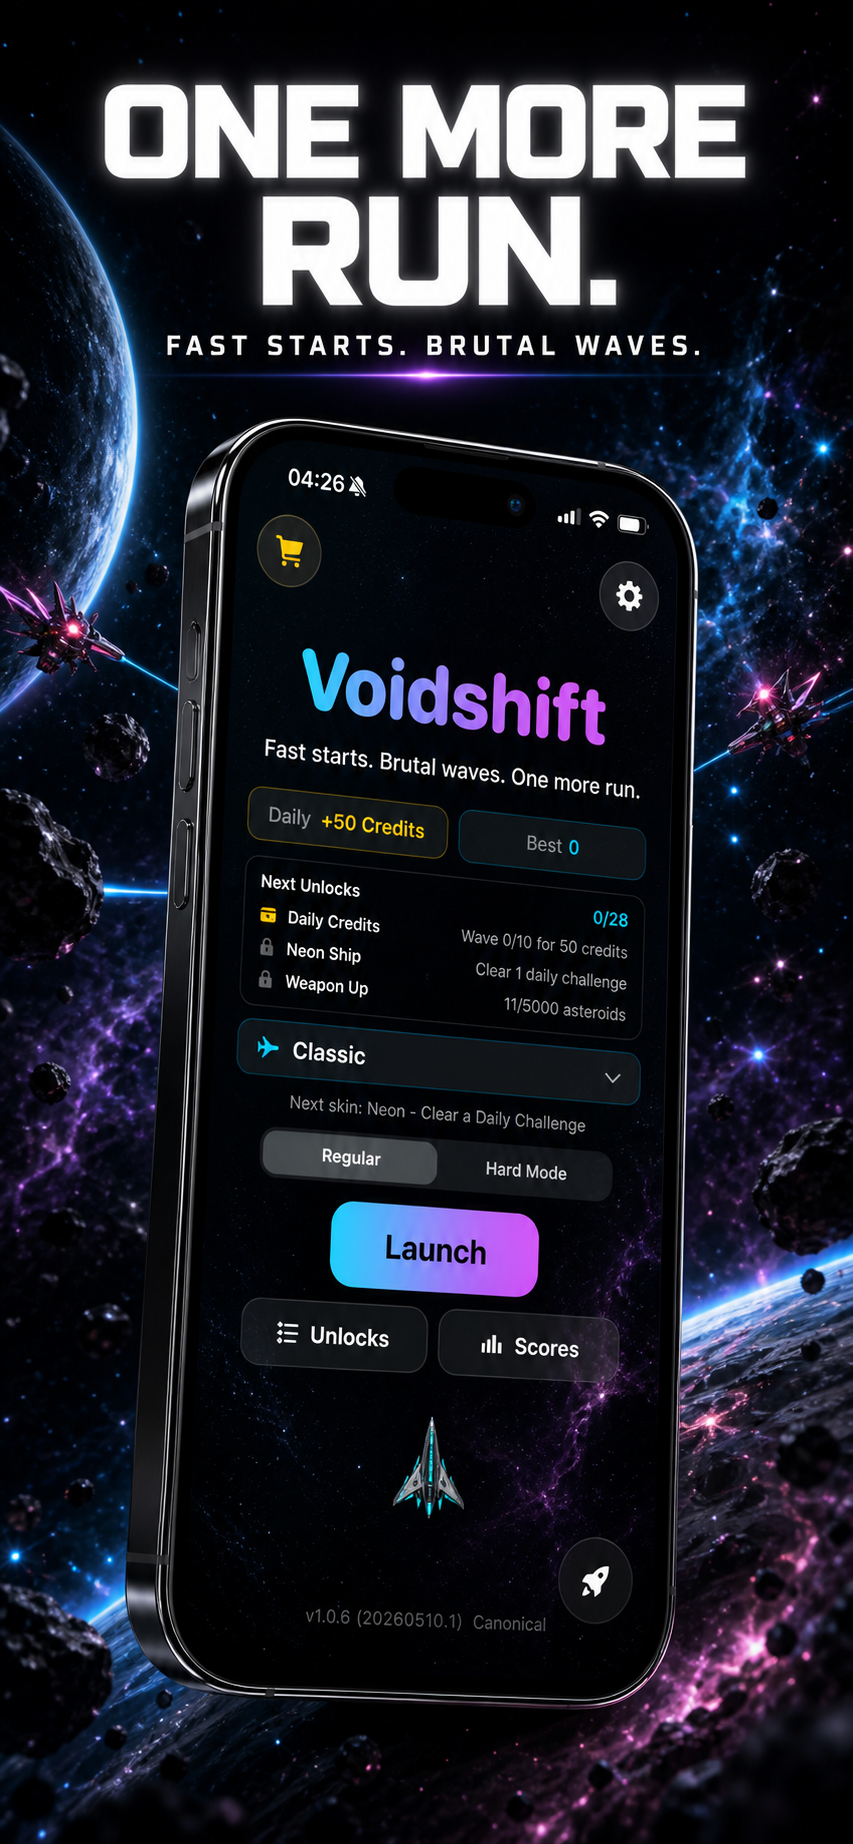
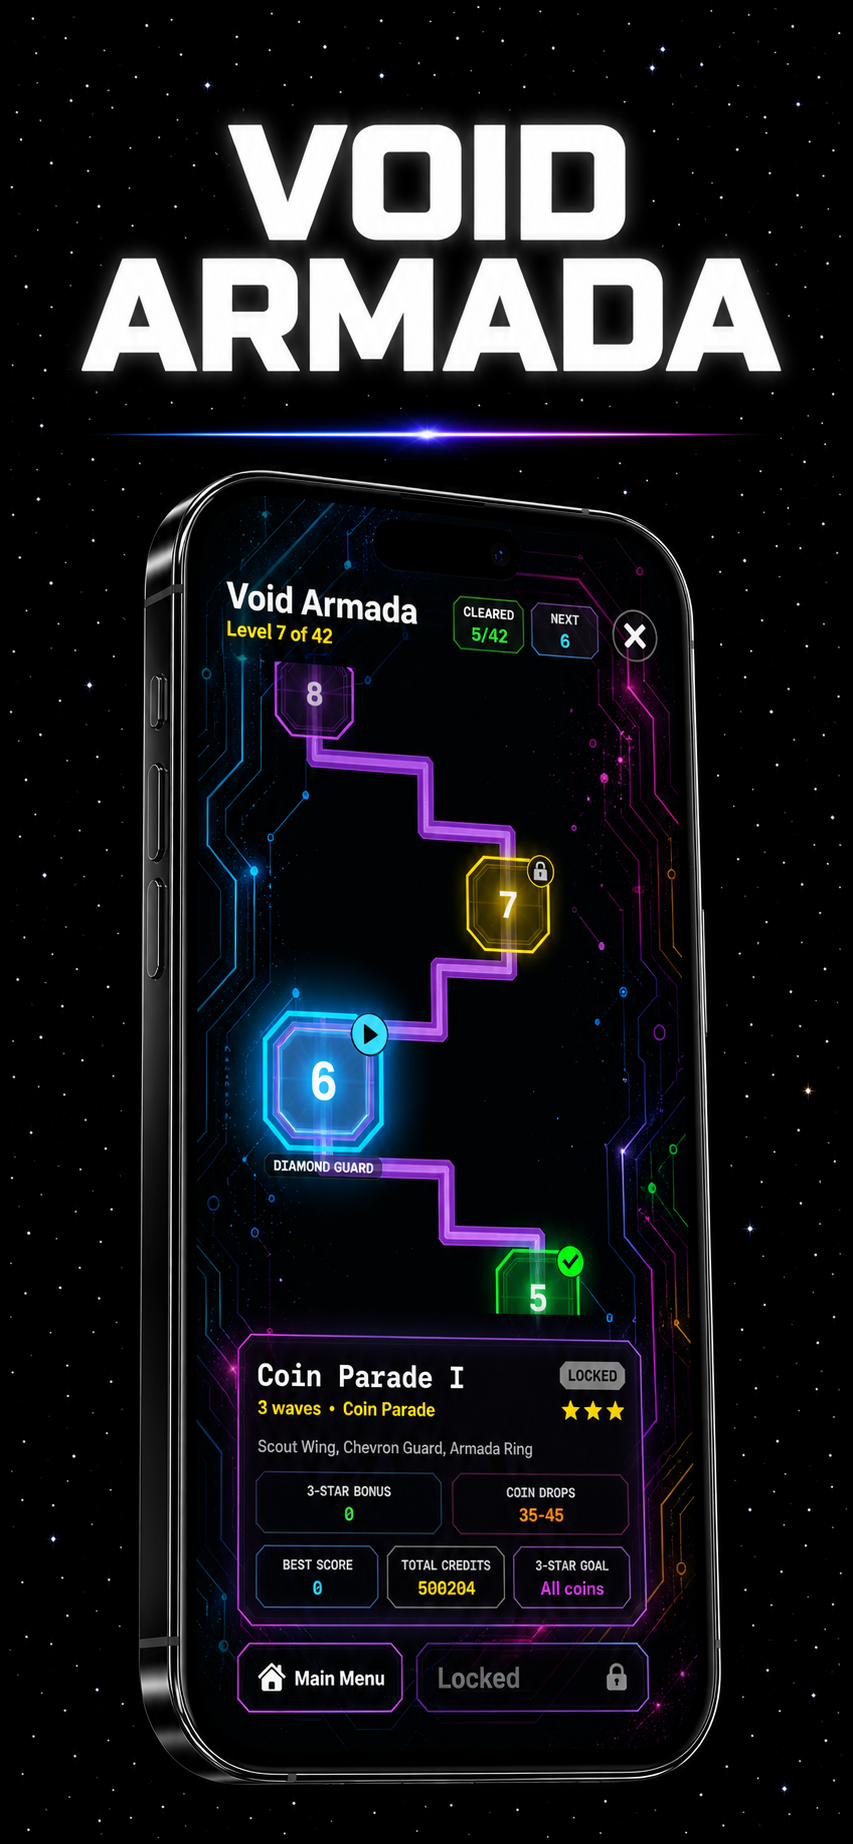
Update VoidShift 3.0 promo images

diff --git a/works/games/index.html b/works/games/index.html
@@ -69,18 +69,18 @@
 						<p class="voidshift-actions"><a class="voidshift-download en-b" href="https://apps.apple.com/us/app/voidshift/id6764814433?uo=4" target="_blank" rel="noopener">Download on the App Store</a><a class="voidshift-download voidshift-policy-link en-b" href="/works/games/privacy-policy/">Privacy Policy</a></p>
 					</div>
 					<div class="voidshift-gallery" aria-label="VoidShift screenshots">
-						<img src="/works/games/image/voidshift-enter-the-void.png" alt="VoidShift Enter the Void promo">
-						<img src="/works/games/image/voidshift-launch-screen.png" alt="VoidShift launch screen">
-						<img src="/works/games/image/voidshift-cosmetics.png" alt="VoidShift cosmetics screen">
-						<img src="/works/games/image/voidshift-tier-3.png" alt="VoidShift arsenal screen">
+						<img src="/works/games/image/voidshift-enter-the-void.png?v=20260531" alt="VoidShift Enter the Void promo">
+						<img src="/works/games/image/voidshift-launch-screen.png?v=20260531" alt="VoidShift Void Armada promo">
+						<img src="/works/games/image/voidshift-cosmetics.png?v=20260531" alt="VoidShift One More Run promo">
+						<img src="/works/games/image/voidshift-tier-3.png?v=20260531" alt="VoidShift Customize Your Ship promo">
 					</div>
 				</div></div>
 			<div class="dt-credit"><p>Game: VoidShift<br>Studio: Tech N Tweaks<br>Platform: iPhone / iPad</p></div>
 			<div class="dt-w-imglist">
-				<p class="dt-w-img">/works/games/image/voidshift-enter-the-void.png</p>
-				<p class="dt-w-img">/works/games/image/voidshift-launch-screen.png</p>
-				<p class="dt-w-img">/works/games/image/voidshift-cosmetics.png</p>
-				<p class="dt-w-img">/works/games/image/voidshift-tier-3.png</p>
+				<p class="dt-w-img">/works/games/image/voidshift-enter-the-void.png?v=20260531</p>
+				<p class="dt-w-img">/works/games/image/voidshift-launch-screen.png?v=20260531</p>
+				<p class="dt-w-img">/works/games/image/voidshift-cosmetics.png?v=20260531</p>
+				<p class="dt-w-img">/works/games/image/voidshift-tier-3.png?v=20260531</p>
 			</div>
 		</div>
 	</div>